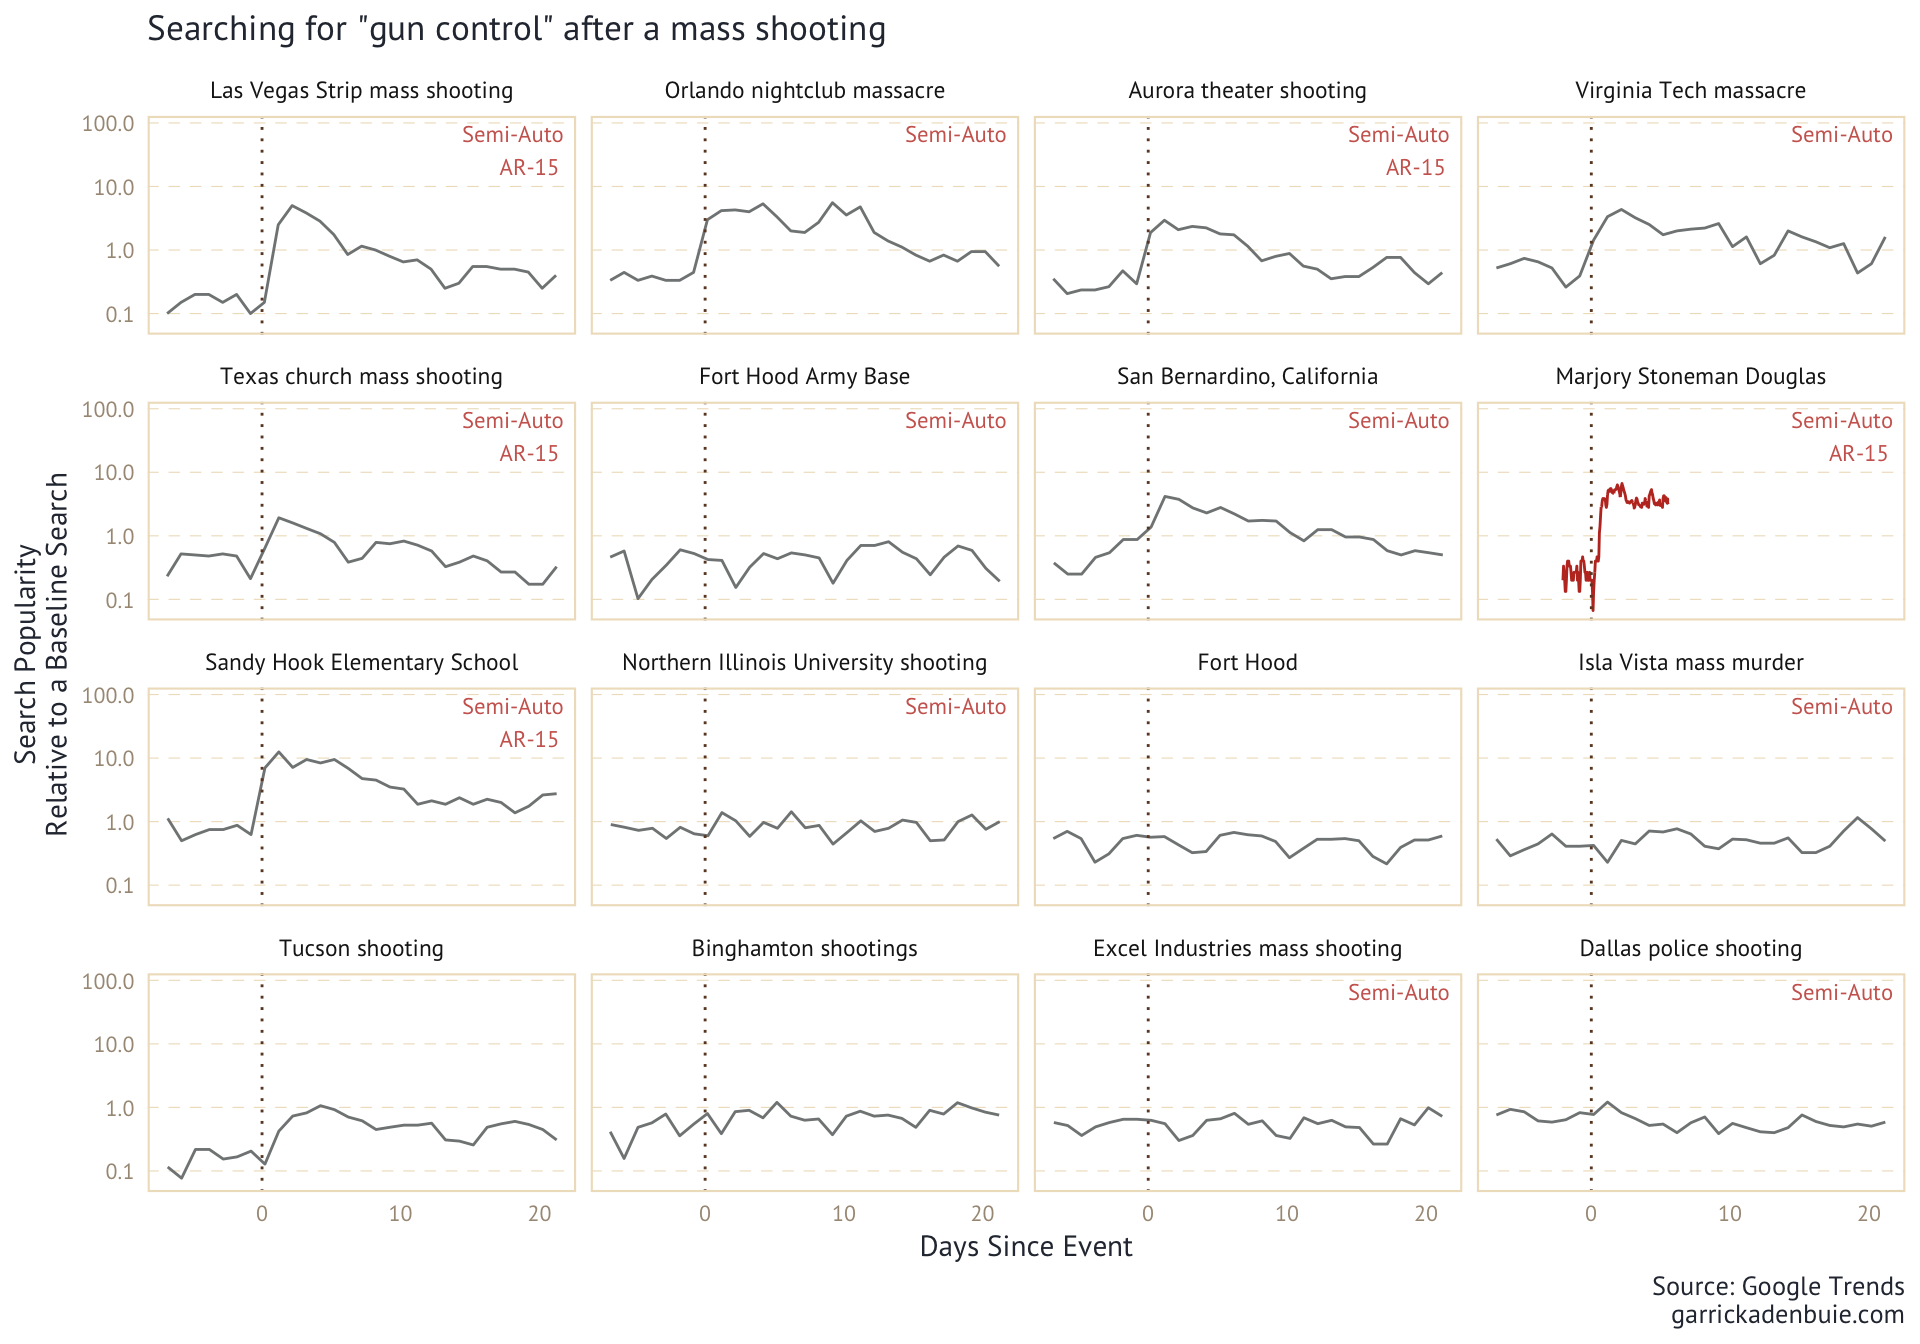
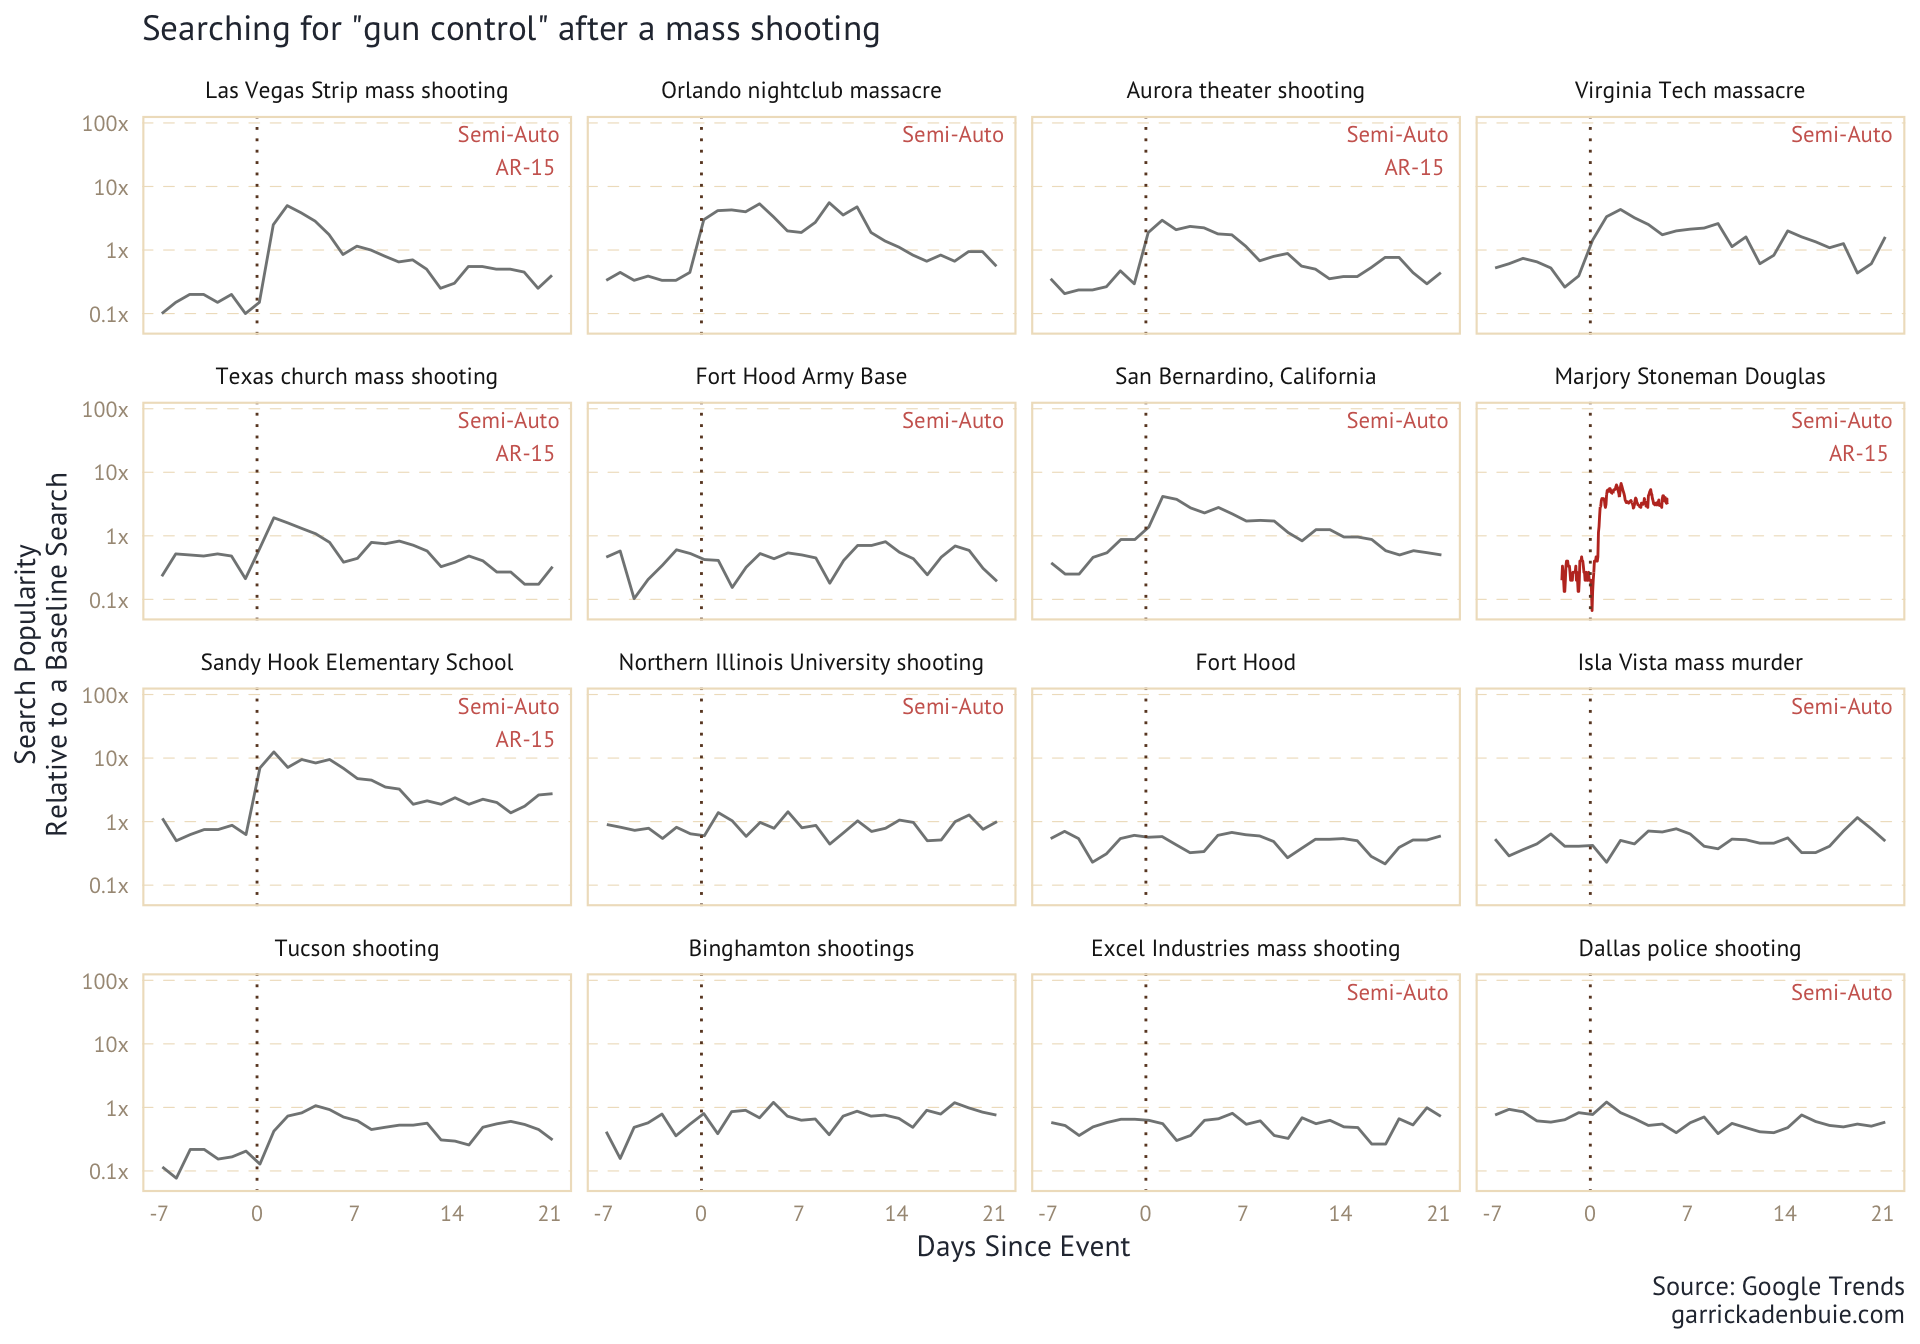
Tweak log(y) labels and x day labels

diff --git a/content/blog/2018/2018-02-18-gun-control-google-trends.html b/content/blog/2018/2018-02-18-gun-control-google-trends.html
@@ -458,7 +458,7 @@ But it also seems too early to tell.</p>
 <p>In the mean time, just remember that Google searches aren’t real things.
 If you want to make a difference or a change, support a local politician, donate to gun violence research, and register your friends to vote.
 For more ideas, take a look at <a href="https://everytown.org/throwthemout/">Everytown’s Action Plan</a> at <a href="https://everytown.org/throwthemout/" class="uri">https://everytown.org/throwthemout/</a>.</p>
-<p><img src="/blog/2018/2018-02-18-gun-control-google-trends_files/figure-html/plot2-1.png" width="960" /></p>
+<p><img src="/blog/2018/2018-02-18-gun-control-google-trends_files/figure-html/plot-similar-1.png" width="960" /></p>
 <p>I’ll close with this tweet from <a href="https://twitter.com/davepell">@davepell</a>.</p>
 <p>But first, to the victims in Parkland, Florida and the victims of gun violence across the United States, I want you to know that <strong>I hear you, and I stand with you.</strong></p>
 {{% tweet "965077119968489472" %}}
